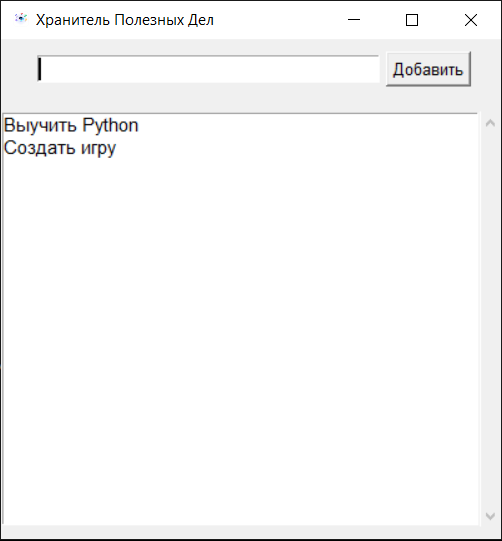
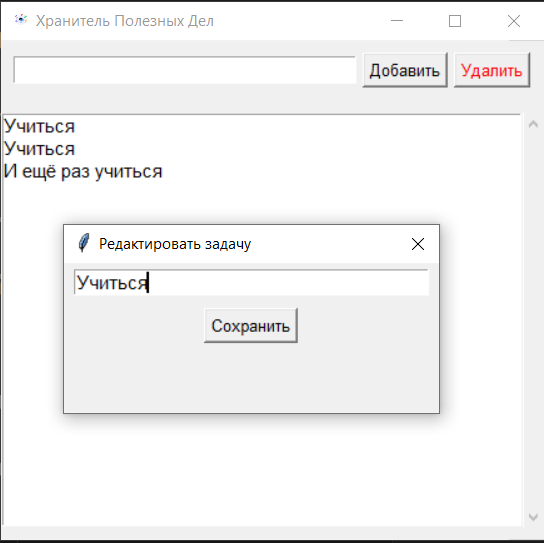
Add files via upload

diff --git a/gui.py b/gui.py
@@ -1,0 +1,121 @@
+import tkinter as tk
+from typing import List
+from tkinter import messagebox, Listbox, Scrollbar, END
+from storage import save_tasks
+
+
+# Создание GUI
+def create_gui(tasks: List[str]) -> tk.Tk:
+    root = tk.Tk()
+    root.title("Хранитель Полезных Дел")
+    root.geometry("400x400")
+    try:
+        root.iconbitmap("icon.ico")
+    except tk.TclError:
+        # Иконка не найдена - просто пропускаем, окно без иконки
+        pass
+
+    # Храним ссылки на виджеты и данные
+    widgets = {}
+
+    # Функция: добавить задачу
+    def add_task():
+        task = widgets["entry"].get().strip()
+        if task:
+            tasks.append(task)
+            widgets["listbox"].insert(END, task)
+            widgets["entry"].delete(0, END)
+            save_tasks(tasks)
+        else:
+            messagebox.showwarning("Внимание", "Введите задачу!")
+
+    # Функция: удалить задачу
+    def delete_task():
+        selected = widgets["listbox"].curselection()
+        if not selected:
+            messagebox.showwarning("Внимание", "Выберите задачу для удаления!")
+            return
+        index = selected[0]
+        task_to_remove = tasks[index]
+
+        # Подтверждение
+        confirm = messagebox.askyesno(
+            "Подтверждение", f"Удалить задачу?\n«{task_to_remove}»"
+        )
+        if confirm:
+            # Удаляем из списка в памяти
+            del tasks[index]
+            # Удаляем из интерфейса
+            widgets["listbox"].delete(index)
+            # Сохраняем изменения
+            save_tasks(tasks)
+
+    # Функция: редактировать задачу
+    def edit_task(event=None):
+        selected = widgets["listbox"].curselection()
+        if not selected:
+            return
+        index = selected[0]
+        old_task = tasks[index]
+
+        # Создаём временное окно ввода
+        edit_window = tk.Toplevel(root)
+        edit_window.title("Редактировать задачу")
+        edit_window.geometry("300x120")
+        edit_window.transient(root)
+        edit_window.grab_set()
+
+        tk.Label(edit_window, text="Измените задачу:", font=("Arial", 10))
+        edit_entry = tk.Entry(edit_window, width=35, font=("Arial", 11))
+        edit_entry.pack(pady=5)
+        edit_entry.insert(0, old_task)
+        edit_entry.select_range(0, tk.END)
+        edit_entry.focus()
+
+        def save_edit():
+            new_task = edit_entry.get().strip()
+            if new_task:
+                tasks[index] = new_task
+                widgets["listbox"].delete(index)
+                widgets["listbox"].insert(index, new_task)
+                save_tasks(tasks)
+            edit_window.destroy()
+
+        tk.Button(
+            edit_window, text="Сохранить", command=save_edit, font=("Arial", 10)
+        ).pack(pady=5)
+
+    # Интерфейс
+    frame = tk.Frame(root)
+    frame.pack(pady=10)
+
+    entry = tk.Entry(frame, width=30, font=("Arial", 12))
+    entry.pack(side=tk.LEFT, padx=5)
+    widgets["entry"] = entry
+
+    add_btn = tk.Button(frame, text="Добавить", command=add_task, font=("Arial", 10))
+    add_btn.pack(side=tk.LEFT)
+
+    delete_btn = tk.Button(
+        frame, text="Удалить", command=delete_task, font=("Arial", 10), fg="red"
+    )
+    delete_btn.pack(side=tk.LEFT, padx=5)
+
+    # Список задач с прокруткой
+    list_frame = tk.Frame(root)
+    list_frame.pack(pady=10, fill=tk.BOTH, expand=True)
+
+    scrollbar = Scrollbar(list_frame)
+    scrollbar.pack(side=tk.RIGHT, fill=tk.Y)
+
+    listbox = Listbox(list_frame, font=("Arial", 11), yscrollcommand=scrollbar.set)
+    listbox.pack(fill=tk.BOTH, expand=True)
+    scrollbar.config(command=listbox.yview)
+    widgets["listbox"] = listbox
+    listbox.bind("<Double-1>", edit_task)
+
+    # Загрузка задач в список
+    for task in tasks:
+        listbox.insert(END, task)
+
+    return root

diff --git a/test_storage.py b/test_storage.py
@@ -1,0 +1,48 @@
+import unittest
+import os
+from storage import load_tasks, save_tasks
+
+
+class TestTaskStorage(unittest.TestCase):
+
+    def setUp(self):
+        """Выплняется перед каждым тестом - создаём временный файл"""
+        self.test_file = "test_tasks.txt"
+
+    def tearDown(self):
+        """Удаляем врменный файл после теста"""
+        if os.path.exists(self.test_file):
+            os.remove(self.test_file)
+
+    def test_load_empty_file(self):
+        """Тест: загрузка из несуществующего файла - пустой список"""
+        tasks = load_tasks(self.test_file, show_errors=False)
+        self.assertEqual(tasks, [])
+
+    def test_save_and_load_tasks(self):
+        """Тест: сохранение и загрузка работают корректно"""
+        original_tasks = ["Купить хлеб", "Выучить Python", "Создать игру"]
+        save_tasks(original_tasks, self.test_file, show_errors=False)
+        loaded_tasks = load_tasks(self.test_file, show_errors=False)
+        self.assertEqual(loaded_tasks, original_tasks)
+
+    def test_load_strips_whitespace(self):
+        """Тест: пробелы в начале/конце строк удаляются"""
+        with open(self.test_file, "w", encoding="utf-8") as f:
+            f.write(" Задача 1 \n\n Задача 2 \n")
+        tasks = load_tasks(self.test_file, show_errors=False)
+        expected = ["Задача 1", "Задача 2"]
+        self.assertEqual(tasks, expected)
+
+    def test_save_after_deletion(self):
+        """Тест на удаление"""
+        tasks = ["A", "B", "C"]
+        save_tasks(tasks, self.test_file, show_errors=False)
+        del tasks[1]
+        save_tasks(tasks, self.test_file, show_errors=False)
+        loaded = load_tasks(self.test_file, show_errors=False)
+        self.assertEqual(loaded, ["A", "C"])
+
+
+if __name__ == "__main__":
+    unittest.main()

diff --git a/storage.py b/storage.py
@@ -1,0 +1,36 @@
+import os
+from typing import List
+from tkinter import messagebox
+
+# Файл по умолчанию для хранения задач
+TASK_FILE = "tasks.txt"
+
+
+def load_tasks(filename: str = TASK_FILE, show_errors: bool = True) -> List[str]:
+    """Загружает задачи из указанного файла. Пробелы по краям удаляются, пустые строки игнорируются."""
+    tasks: List[str] = []
+    try:
+        if os.path.exists(filename):
+            with open(filename, "r", encoding="utf-8") as f:
+                tasks = [line.strip() for line in f if line.strip()]
+    except (IOError, OSError) as e:
+        if show_errors:
+            from tkinter import messagebox
+
+            messagebox.showerror("Ошибка", f"Не удалось загрузить задачи:\n{e}")
+    return tasks
+
+
+def save_tasks(
+    tasks: List[str], filename: str = TASK_FILE, show_errors: bool = True
+) -> None:
+    """Сохраняет список задач в указанный файл."""
+    try:
+        with open(filename, "w", encoding="utf-8") as f:
+            for task in tasks:
+                f.write(task + "\n")
+    except (IOError, OSError) as e:
+        if show_errors:
+            from tkinter import messagebox
+
+            messagebox.showerror("Ошибка", f"Не удалось сохранить задачи:\n{e}")

diff --git a/main.py b/main.py
@@ -1,0 +1,8 @@
+from storage import load_tasks
+from gui import create_gui
+
+# === ТОЧКА ВХОДА ===
+if __name__ == "__main__":
+    tasks = load_tasks()
+    app = create_gui(tasks)
+    app.mainloop()

diff --git a/README.md b/README.md
@@ -1,4 +1,4 @@
-# Хранитель полезных дел 📝 (v1.1)
+# Хранитель полезных дел 📝 (v2.0)
 
 Простое оконное приложение для управления списком задач.
 Сохраняет задачи между перезапусками. Создано с помощью `Python` и `tkinter`.
@@ -24,12 +24,12 @@
 - `tkinter` (встроенная `GUI`-библиотека)
 - `pyinstaller` (для сборки `.exe`)
 
-<spoiler title = "🆕 Что нового в v1.1">
-- Полная обработка ошибок (`try/except`) - программа не падает при проблемах с файлами
-- Анатация типов (`type hints`)
-- Код отформатирован с помощью `black`
-- Использованы списковые включения
-- Архитектура разделена на функции
-</spoiler>
+## 🆕 Что нового в v2.0
+- **Модульная архитектура**
+- **Полный CRUD**: создание, чтение, обновление, удаление задач
+- **Автоматические тесты** с `unittest`
+- **`GitHub Actions`** - тесты запускаются при каждом коммите!
+- **Профессиональный стиль кода** (`PEP 8` + `black`)
+- **Обработка ошибок** и **аннотации типов**
 
 Создано с ❤ в Королевстве Кодекс.
